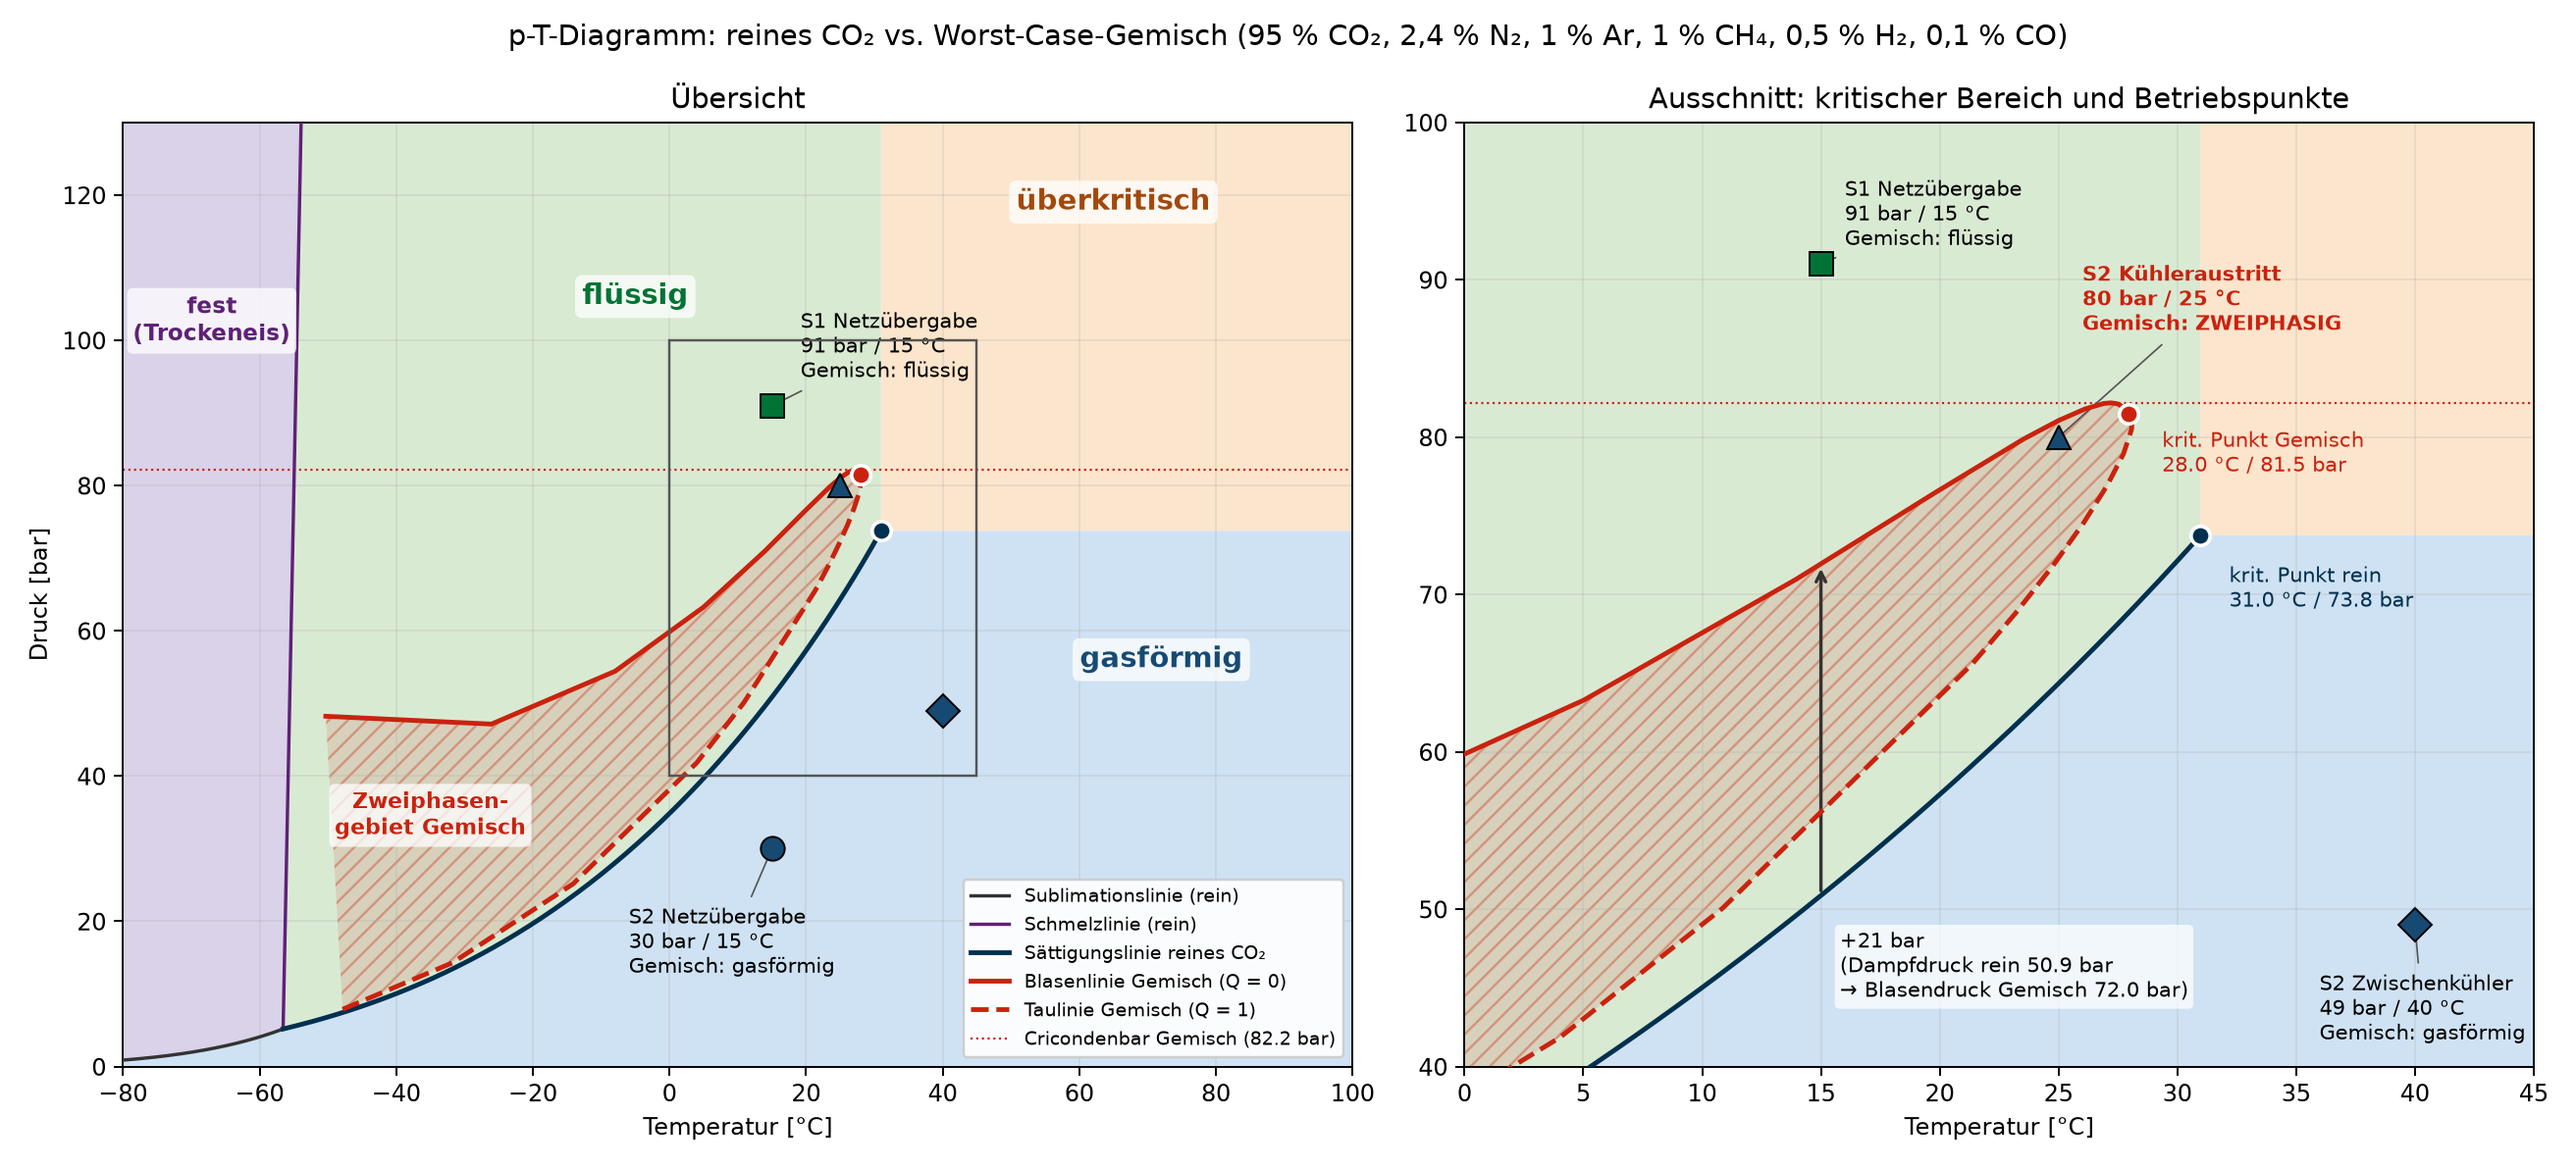
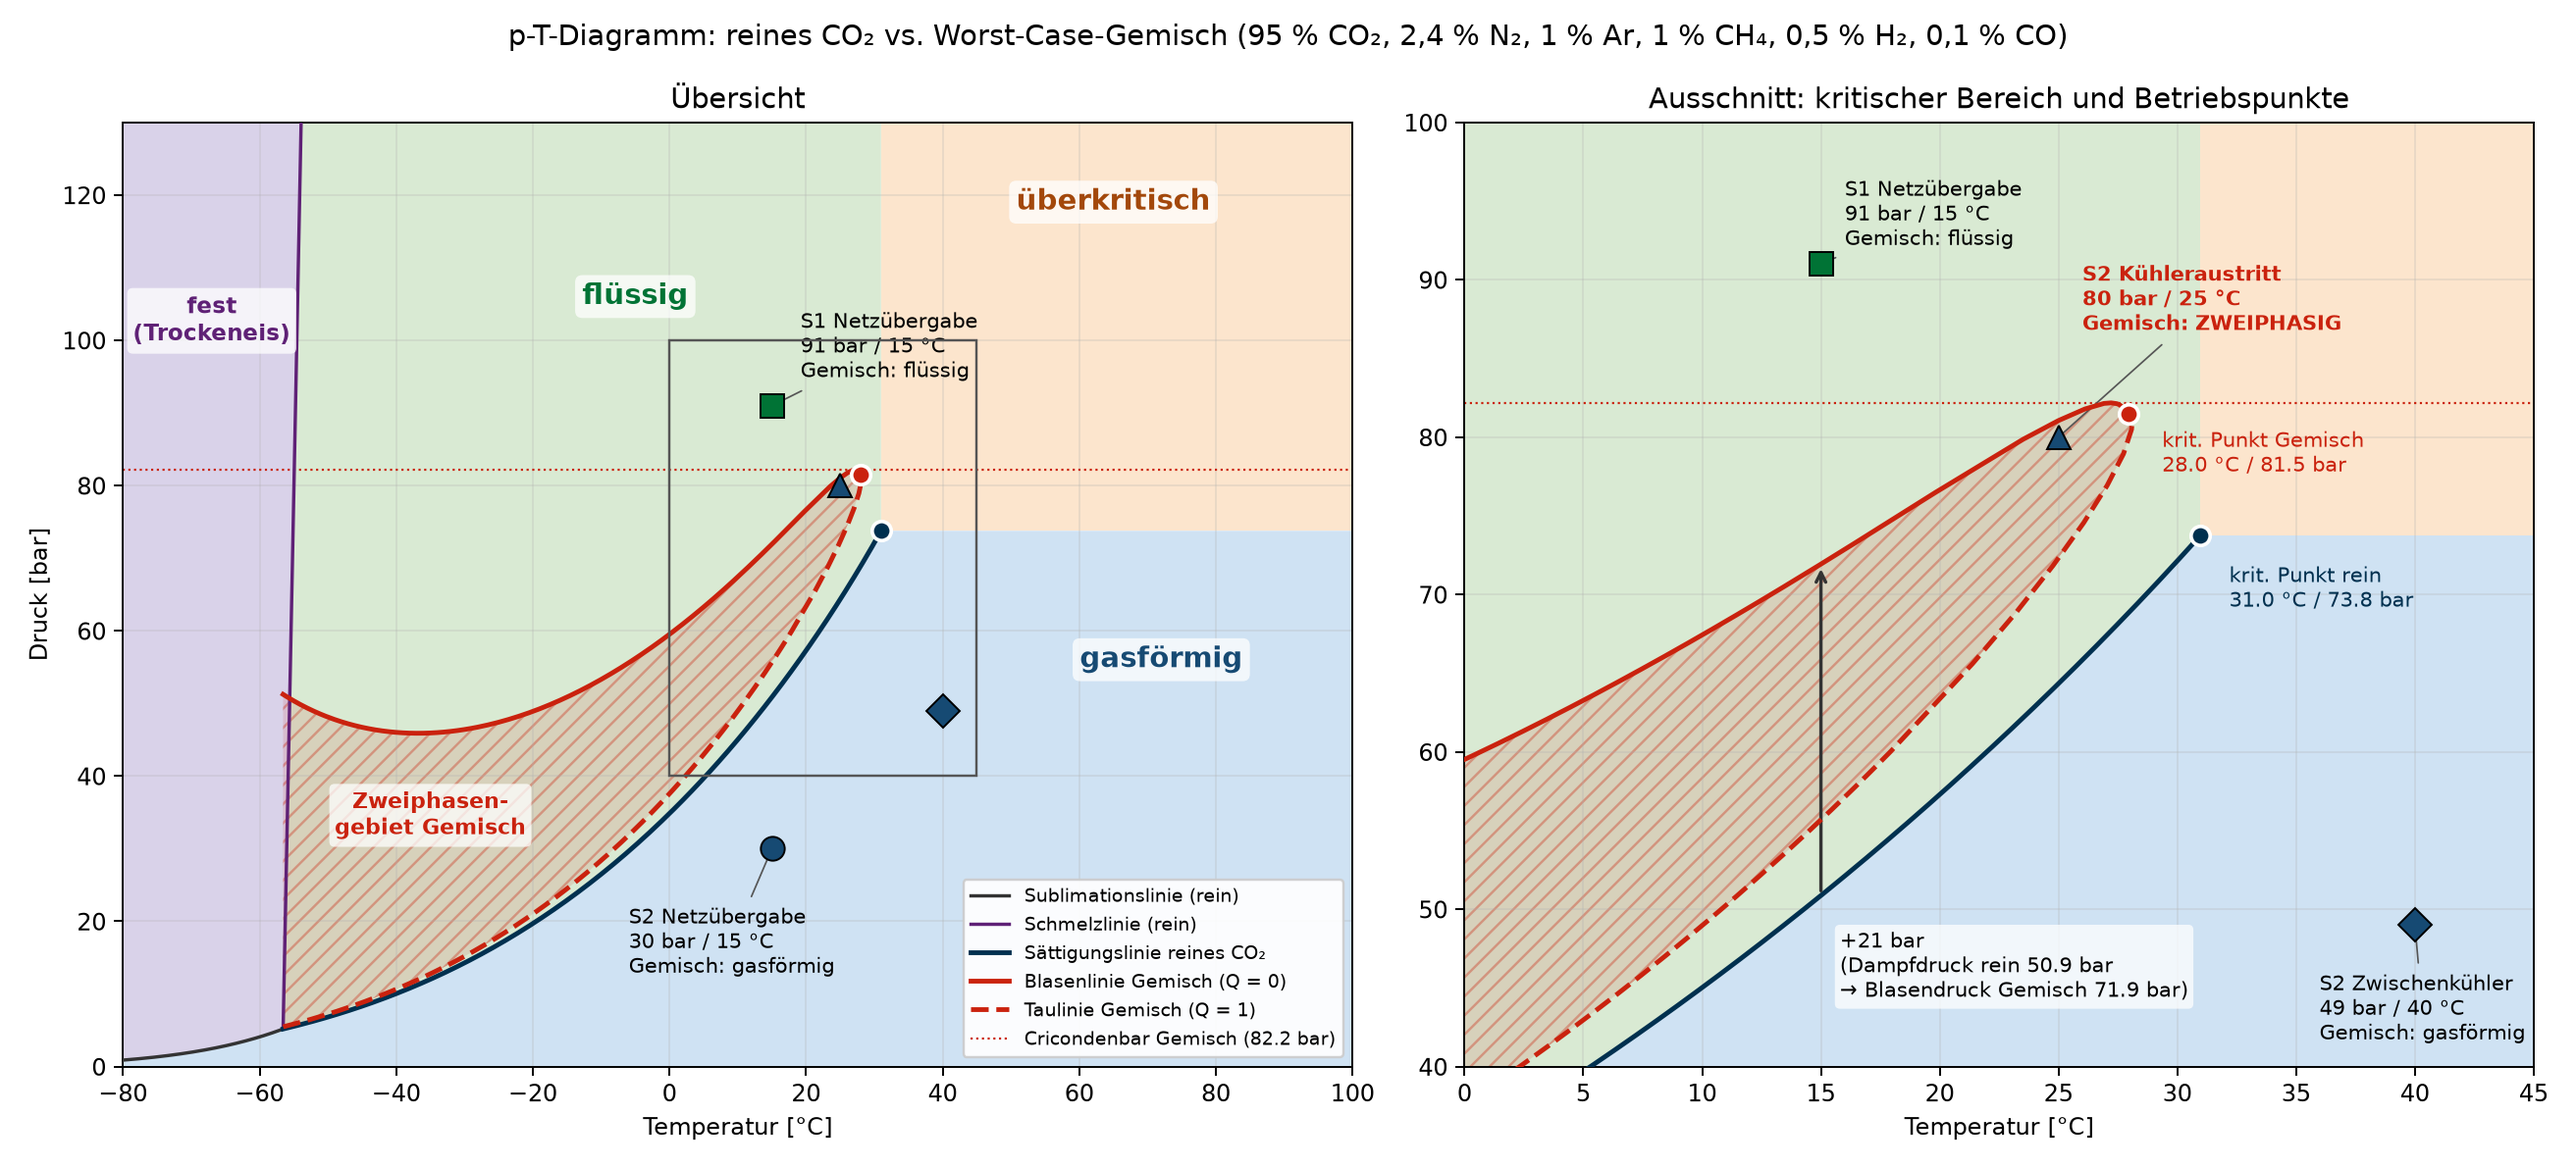
Begleitstoffe_CO2: Validierung gegen thermopack (GERG-2008, PR, SRK), glattere Phasengrenze
- 02_validierung_stoffmodelle.py: CoolProp gegen unabhaengige Implementierung
- gemisch_worstcase.py: Huellkurve mit QT-Flash-Raster verdichtet,
  Blasen-/Taudruck auf verdichteter Kurve interpoliert

Claude-Session: https://claude.ai/code/session_01FLRXDCKem3dbasHw8H8HkL

diff --git a/Masterarbeit/Einspeicherung/Begleitstoffe_CO2/02_validierung_stoffmodelle.py b/Masterarbeit/Einspeicherung/Begleitstoffe_CO2/02_validierung_stoffmodelle.py
@@ -1,0 +1,166 @@
+# -*- coding: utf-8 -*-
+"""
+Schritt 0b - Verifikation der Stoffmodelle: CoolProp gegen unabhängige Software
+============================================================================
+Frage: Rechnet CoolProp die Stoffwerte richtig, und wie groß ist die
+Modellunsicherheit der Phasengrenze des Worst-Case-Gemischs?
+
+Vergleich mit einer zweiten, unabhängig programmierten Stoffdatenbibliothek:
+thermopack (SINTEF Energy Research, https://github.com/thermotools/thermopack),
+installierbar mit  pip install thermopack
+
+Verglichene Modelle
+  CoolProp HEOS   Reinstoff: Span & Wagner (1996)
+                  Gemisch:   Mehrfluid-Helmholtz-Modell, Reinstoff-Referenz-
+                             gleichungen + Binärparameter aus GERG-2008
+                             (Kunz & Wagner 2012) und EOS-CG (Gernert 2013)
+  thermopack GERG-2008   GERG-2008 vollständig (eigene Reinstoffgleichungen
+                         und Binärparameter nach Kunz & Wagner 2012),
+                         eigener Programmcode -> unabhängige Gegenrechnung
+  thermopack PR / SRK    kubische Zustandsgleichungen (Peng-Robinson,
+                         Soave-Redlich-Kwong) - zum Vergleich, wie groß der
+                         Fehler eines einfachen Modells wäre
+
+Ergebnis: Konsolenausgabe (Tabellen) und abb_validierung_phasengrenze.png
+"""
+import matplotlib
+matplotlib.use("Agg")
+import matplotlib.pyplot as plt
+import numpy as np
+import CoolProp
+import CoolProp.CoolProp as CP
+from thermopack.multiparameter import multiparam
+from thermopack.cubic import cubic
+
+import gemisch_worstcase as gw
+
+print(f"CoolProp-Version: {CoolProp.__version__}")
+
+# ---- 1) Reines CO2 --------------------------------------------------------
+M_CO2 = CP.PropsSI("M", "CO2")          # kg/mol
+eins = np.array([1.0])
+rein = {
+    "GERG-2008 (thermopack)": multiparam("CO2", "GERG2008"),
+    "Peng-Robinson": cubic("CO2", "PR"),
+    "SRK": cubic("CO2", "SRK"),
+}
+
+print("\nReines CO2 - Dampfdruck [bar]")
+print(f"{'T [°C]':>7} {'CoolProp':>9} " + " ".join(f"{k:>24}" for k in rein))
+for T_C in [-50, -20, 0, 15, 20, 25, 30]:
+    T = T_C + 273.15
+    p_cp = CP.PropsSI("P", "T", T, "Q", 0, "CO2") / 1e5
+    zeile = f"{T_C:7.0f} {p_cp:9.3f} "
+    for eos in rein.values():
+        p = eos.bubble_pressure(T, eins)[0] / 1e5
+        zeile += f"{p:13.3f} ({100*(p-p_cp)/p_cp:+6.2f} %)"
+    print(zeile)
+
+print("\nReines CO2 - Dichte an den Betriebspunkten [kg/m3]")
+PUNKTE = [("S1 Netzübergabe", 91.0, 15.0), ("S2 Netzübergabe", 30.0, 15.0),
+          ("S2 Kühleraustritt", 80.0, 25.0), ("Bohrlochkopf", 107.6, 20.0),
+          ("Kaverne max.", 210.0, 50.0)]
+print(f"{'Punkt':<18} {'CoolProp':>9} " + " ".join(f"{k:>24}" for k in rein))
+for name, p_bar, T_C in PUNKTE:
+    T, p = T_C + 273.15, p_bar * 1e5
+    rho_cp = CP.PropsSI("D", "P", p, "T", T, "CO2")
+    zeile = f"{name:<18} {rho_cp:9.1f} "
+    for eos in rein.values():
+        phase = eos.LIQPH if rho_cp > 300 else eos.VAPPH
+        v, = eos.specific_volume(T, p, eins, phase)
+        rho = M_CO2 / v
+        zeile += f"{rho:13.1f} ({100*(rho-rho_cp)/rho_cp:+6.2f} %)"
+    print(zeile)
+
+# ---- 2) Worst-Case-Gemisch -------------------------------------------------
+# gleiche Reihenfolge wie gemisch_worstcase.ZUSAMMENSETZUNG
+TP_NAMEN = {"CO2": "CO2", "Nitrogen": "N2", "Argon": "AR", "Methane": "C1",
+            "Hydrogen": "H2", "CarbonMonoxide": "CO"}
+tp_komp = ",".join(TP_NAMEN[k] for k in gw.KOMPONENTEN)
+z = np.array(gw.MOLANTEILE)
+
+gem = {
+    "GERG-2008 (thermopack)": multiparam(tp_komp, "GERG2008"),
+    "Peng-Robinson": cubic(tp_komp, "PR"),
+}
+
+pg = gw.phasengrenze()
+T_tripel_C = CP.PropsSI("Ttriple", "CO2") - 273.15
+
+print("\nWorst-Case-Gemisch - Phasengrenze")
+kennwerte = {"CoolProp HEOS": {
+    "krit": pg["krit"], "cricondenbar": pg["cricondenbar"],
+    "p_blase15": gw.blasendruck(15), "p_tau15": gw.taudruck(15)}}
+huellen = {}
+for name, eos in gem.items():
+    T, p = eos.get_envelope_twophase(5e5, z, maximum_pressure=150e5, calc_v=False)
+    T, p = np.array(T) - 273.15, np.array(p) / 1e5
+    gueltig = T >= T_tripel_C               # wie in CoolProp: kein Feststoff
+    huellen[name] = (T[gueltig], p[gueltig])
+    Tc, _, pc = eos.critical(z)
+    i = int(np.argmax(p[gueltig]))
+    kennwerte[name] = {
+        "krit": (Tc - 273.15, pc / 1e5),
+        "cricondenbar": (T[gueltig][i], p[gueltig][i]),
+        "p_blase15": eos.bubble_pressure(288.15, z)[0] / 1e5,
+        "p_tau15": eos.dew_pressure(288.15, z)[0] / 1e5,
+    }
+
+print(f"{'Modell':<24} {'krit. Punkt':>18} {'Cricondenbar':>18} {'p_Blase 15°C':>13} {'p_Tau 15°C':>11}")
+for name, k in kennwerte.items():
+    print(f"{name:<24} {k['krit'][0]:6.1f} °C/{k['krit'][1]:5.1f} bar "
+          f"{k['cricondenbar'][0]:6.1f} °C/{k['cricondenbar'][1]:5.1f} bar "
+          f"{k['p_blase15']:9.1f} bar {k['p_tau15']:7.1f} bar")
+
+print("\nWorst-Case-Gemisch - Dichte an den Betriebspunkten [kg/m3]")
+M_gem = gw.gemisch().molar_mass()
+AS = gw.gemisch()
+print(f"{'Punkt':<18} {'CoolProp':>9} " + " ".join(f"{k:>24}" for k in gem))
+for name, p_bar, T_C in PUNKTE:
+    s = gw.stoffwerte(p_bar, T_C, AS)
+    if s["phase"] == "ZWEIPHASIG":
+        print(f"{name:<18} zweiphasig - Dichtevergleich nicht sinnvoll")
+        continue
+    zeile = f"{name:<18} {s['rho']:9.1f} "
+    for eos in gem.values():
+        phase = eos.LIQPH if s["rho"] > 300 else eos.VAPPH
+        v, = eos.specific_volume(T_C + 273.15, p_bar * 1e5, z, phase)
+        rho = M_gem / v
+        zeile += f"{rho:13.1f} ({100*(rho-s['rho'])/s['rho']:+6.2f} %)"
+    print(zeile)
+
+# ---- 3) Plot: Phasengrenze Gemisch nach drei Modellen ----------------------
+ROT, BLAU, GRAU, GRUEN = "#CA220E", "#164a73", "#666666", "#007335"
+fig, ax = plt.subplots(figsize=(8.5, 6.2))
+
+T_s = np.linspace(CP.PropsSI("Ttriple", "CO2"), CP.PropsSI("Tcrit", "CO2"), 200)
+ax.plot(T_s - 273.15, [CP.PropsSI("P", "T", T, "Q", 0, "CO2") / 1e5 for T in T_s],
+        color="#00304F", lw=1.6, label="reines CO₂ (Span-Wagner)")
+
+ax.plot(pg["T_blase"], pg["p_blase"], color=ROT, lw=2.2, label="Gemisch: CoolProp HEOS")
+ax.plot(pg["T_tau"], pg["p_tau"], color=ROT, lw=2.2)
+ax.plot(*pg["krit"], "o", color=ROT, ms=7, markeredgecolor="white", markeredgewidth=1.2)
+
+stil = {"GERG-2008 (thermopack)": (BLAU, "--"), "Peng-Robinson": (GRAU, ":")}
+for name, (T, p) in huellen.items():
+    farbe, ls = stil[name]
+    ax.plot(T, p, color=farbe, lw=2.0, ls=ls, label=f"Gemisch: {name}")
+    ax.plot(*kennwerte[name]["krit"], "o", color=farbe, ms=6,
+            markeredgecolor="white", markeredgewidth=1.2)
+
+for name, p_bar, T_C in PUNKTE[:3]:
+    ax.plot(T_C, p_bar, "s", color=GRUEN if p_bar > 85 else BLAU, ms=8,
+            markeredgecolor="black", markeredgewidth=0.7, zorder=5)
+    versatz = (-105, 10) if name == "S2 Kühleraustritt" else (8, 6)
+    ax.annotate(name, (T_C, p_bar), textcoords="offset points", xytext=versatz, fontsize=8.5)
+
+ax.set_xlim(-60, 40)
+ax.set_ylim(0, 100)
+ax.set_xlabel("Temperatur [°C]")
+ax.set_ylabel("Druck [bar]")
+ax.set_title("Phasengrenze Worst-Case-Gemisch: drei Stoffmodelle im Vergleich")
+ax.legend(loc="upper left", fontsize=8.5, framealpha=0.92)
+ax.grid(alpha=0.25)
+fig.tight_layout()
+fig.savefig("abb_validierung_phasengrenze.png", dpi=175)
+print("\ngespeichert: abb_validierung_phasengrenze.png")

diff --git a/Masterarbeit/Einspeicherung/Begleitstoffe_CO2/gemisch_worstcase.py b/Masterarbeit/Einspeicherung/Begleitstoffe_CO2/gemisch_worstcase.py
@@ -120,6 +120,12 @@ def phasengrenze():
     s.o.) wird abgeschnitten; dort läuft die Rechnung außerdem in einen
     unphysikalischen Hochdruckast.
 
+    Die Hüllkurve von CoolProp hat nur wenige Stützstellen (sichtbare Knicke).
+    Deshalb wird sie abseits des kritischen Punkts mit direkten Sättigungs-
+    rechnungen (QT-Flash, Q = 0 bzw. 1) im 0,5-K-Raster verdichtet. In den
+    letzten 10 K vor dem kritischen Punkt konvergiert der Flash unzuverlässig;
+    dort bleiben die Punkte der Hüllkurve stehen (dort liegen sie dichter).
+
     Rückgabe: dict mit Arrays T_tau, p_tau, T_blase, p_blase in °C / bar
     sowie kritischem Punkt, Cricondenbar (max. Druck) und
     Cricondentherm (max. Temperatur) des Zweiphasengebiets.
@@ -144,6 +150,15 @@ def phasengrenze():
     T_krit = 0.5 * (T[i_krit - 1] + T[i_krit])
     p_krit = 0.5 * (p[i_krit - 1] + p[i_krit])
 
+    # Verdichten: unterhalb T_schnitt QT-Flash-Raster, darüber Hüllkurvenpunkte.
+    # Geprüft gegen die Hüllkurve: bis ca. 10 K unter T_krit trifft der Flash die
+    # Hüllkurvenpunkte exakt, näher am kritischen Punkt konvergiert er teils
+    # auf falsche Lösungen (bis zu 2 bar daneben) - dort nur Hüllkurvenpunkte.
+    T_schnitt = T_krit - 10.0
+    raster = np.arange(T_TRIPEL_CO2, T_schnitt, 0.5)
+    T_tau, p_tau = _verdichten(AS, 1.0, raster, T_tau, p_tau, T_schnitt)
+    T_bl, p_bl = _verdichten(AS, 0.0, raster, T_bl, p_bl, T_schnitt)
+
     T_alle = np.concatenate([T_tau, T_bl])
     p_alle = np.concatenate([p_tau, p_bl])
     i_pmax, i_Tmax = int(np.argmax(p_alle)), int(np.argmax(T_alle))
@@ -158,11 +173,41 @@ def phasengrenze():
     }
 
 
+def _saettigungsdruck(AS, Q, T):
+    """Sättigungsdruck [Pa] des Gemischs bei T [K] und Dampfanteil Q, None wenn kein Ergebnis."""
+    try:
+        AS.update(CP.QT_INPUTS, Q, T)
+        return AS.p()
+    except ValueError:
+        return None
+
+
+def _verdichten(AS, Q, raster, T_huelle, p_huelle, T_schnitt):
+    """Ersetzt die Hüllkurvenpunkte unterhalb T_schnitt durch ein feines Flash-Raster.
+
+    Ergebnis in der Reihenfolge der Hüllkurve: Taulinie mit steigender T,
+    Blasenlinie mit fallender T (vom kritischen Punkt weg).
+    """
+    punkte = [(T, _saettigungsdruck(AS, Q, T)) for T in raster]
+    # Rasterpunkte ohne Flash-Lösung werden durch die Hüllkurvenpunkte abgedeckt
+    fern = T_huelle < T_schnitt
+    T_f = np.array([T for T, p in punkte if p is not None] + list(T_huelle[fern]))
+    p_f = np.array([p for T, p in punkte if p is not None] + list(p_huelle[fern]))
+    ordnung = np.argsort(T_f)
+    T_f, p_f = T_f[ordnung], p_f[ordnung]
+    nah = ~fern
+    if Q == 1.0:    # Taulinie: erst Raster (aufsteigend), dann Hüllkurve zum krit. Punkt
+        return np.concatenate([T_f, T_huelle[nah]]), np.concatenate([p_f, p_huelle[nah]])
+    # Blasenlinie: erst Hüllkurve vom krit. Punkt, dann Raster absteigend
+    return np.concatenate([T_huelle[nah], T_f[::-1]]), np.concatenate([p_huelle[nah], p_f[::-1]])
+
+
 def blasendruck(T_C):
     """Blasendruck [bar] bei T [°C]: oberhalb davon ist das Gemisch einphasig flüssig.
 
-    Aus der Hüllkurve interpoliert - ein direkter QT-Flash (Q = 0) findet
-    nahe dem kritischen Punkt oft keine Lösung.
+    Interpoliert auf der verdichteten Phasengrenze (0,5-K-Raster). Ein
+    einzelner QT-Flash wäre nicht besser: nahe dem kritischen Punkt findet er
+    oft keine oder eine falsche Lösung.
     """
     pg = phasengrenze()
     # Blasenlinie läuft vom kritischen Punkt zu tiefen T -> für interp umdrehen
@@ -170,7 +215,10 @@ def blasendruck(T_C):
 
 
 def taudruck(T_C):
-    """Taudruck [bar] bei T [°C]: unterhalb davon ist das Gemisch einphasig gasförmig."""
+    """Taudruck [bar] bei T [°C]: unterhalb davon ist das Gemisch einphasig gasförmig.
+
+    Wie blasendruck(), nur auf der Taulinie.
+    """
     pg = phasengrenze()
     i = int(np.argmax(pg["T_tau"]))       # nur bis zum Cricondentherm (monoton in T)
     return float(np.interp(T_C, pg["T_tau"][:i + 1], pg["p_tau"][:i + 1], left=np.nan, right=np.nan))
